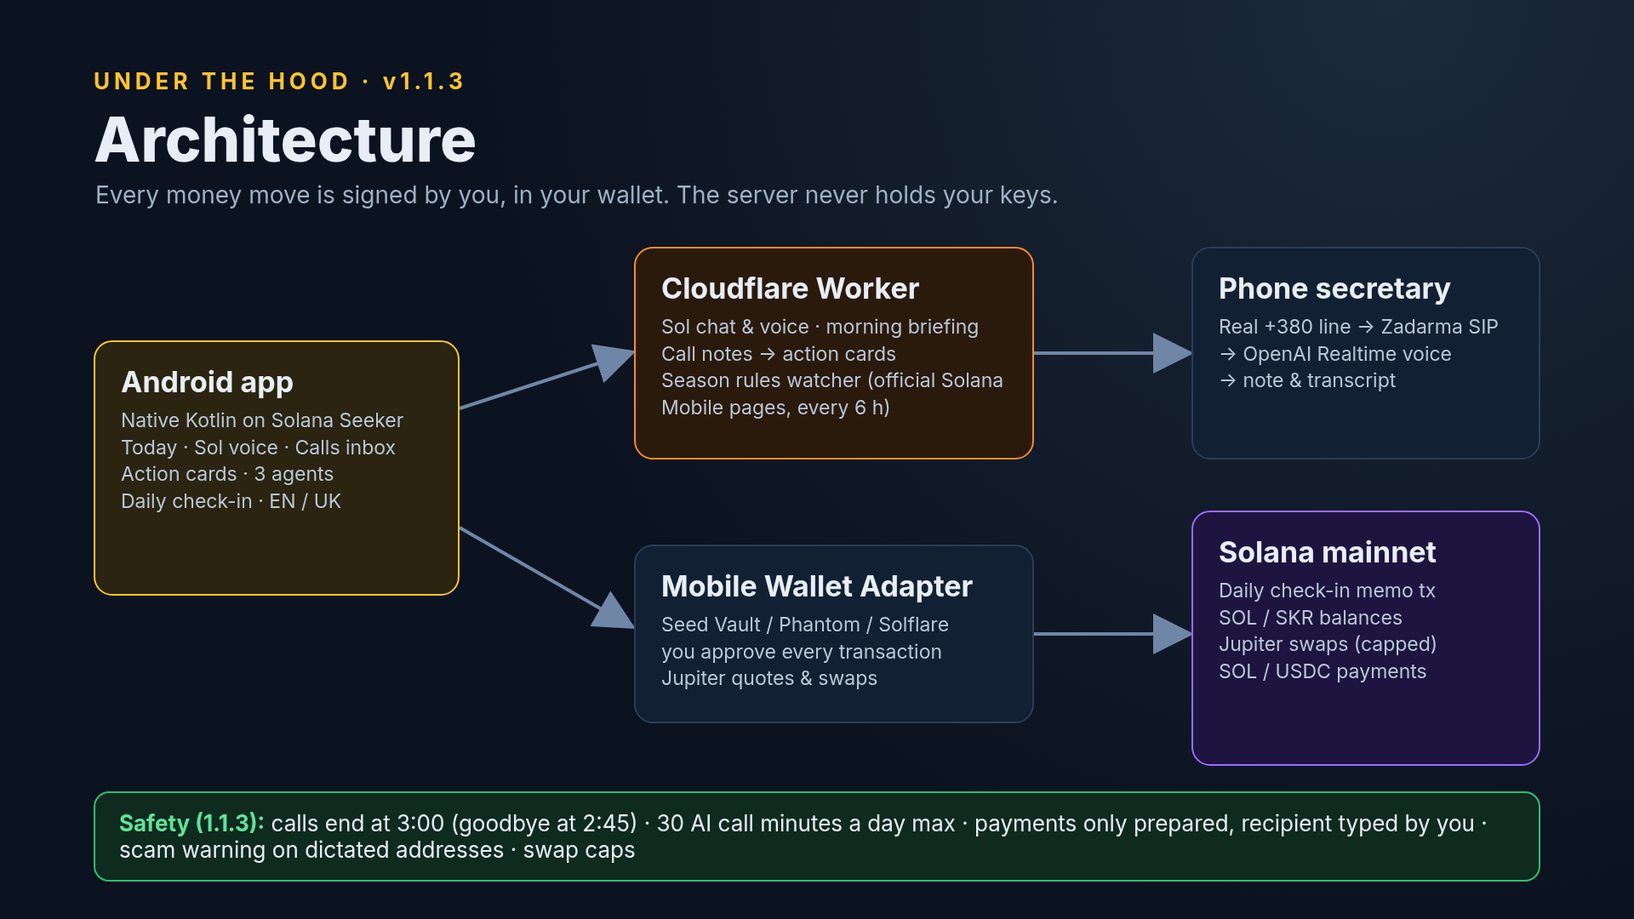
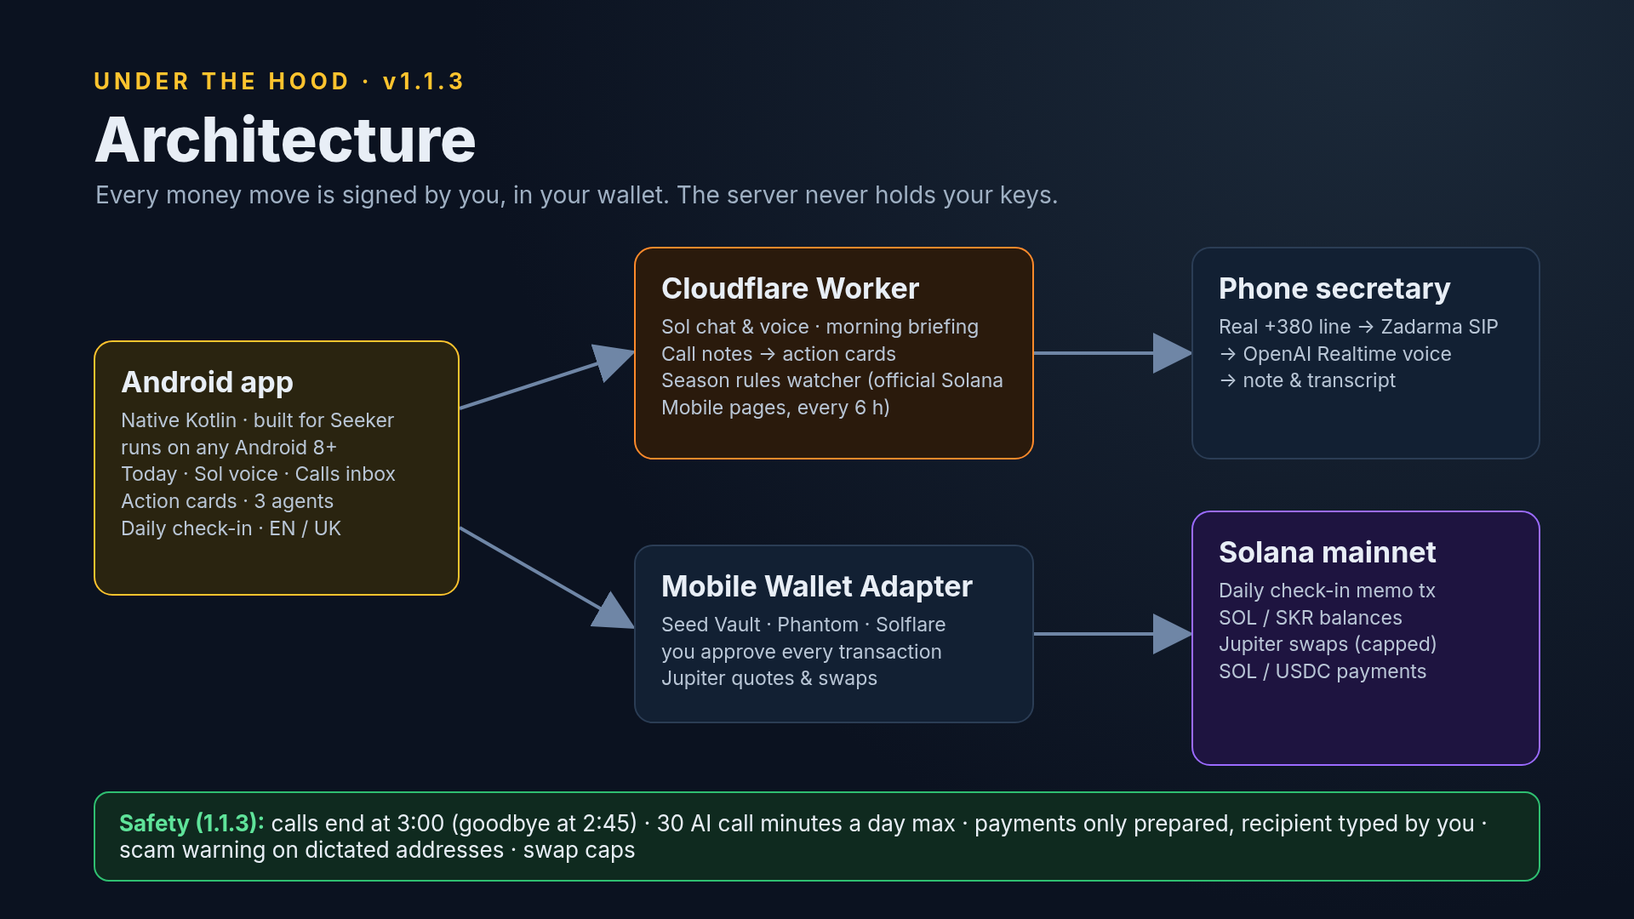
docs: demo filmed on an Android tablet with Phantom (no Seeker claims); prep covers Phantom install, funding and connecting; architecture card wording

Changed region(s): [[0.0625, 0.4278, 0.25, 0.5806], [0.4688, 0.6722, 0.5938, 0.7028]]

diff --git a/docs/DEMO_VIDEO_SCRIPT.md b/docs/DEMO_VIDEO_SCRIPT.md
@@ -2,29 +2,35 @@
 
 This video plays right after the 2-minute speech (pitch-2min-en.md, kept with the Colosseum deliverables), and later on its own for Colosseum. It must work on its own: the speech explains the problem, why Seeker and the business model. The video **shows** it. Nothing from the speech is repeated word for word, so the captions below use different wording on purpose.
 
+- **Device, honestly:** the app is built for Solana Seeker and supports Seed Vault through Mobile Wallet Adapter (MWA). But the video is filmed on an **Android tablet with Phantom**, through the same MWA flow. Vadym doesn't have a Seeker. Never say or caption that something is filmed or signed on a Seeker or in Seed Vault. The first caption says what the device is.
 - Target length: **2:25** (2:20 minimum, 2:30 maximum). The slot allows 3:00, but a tight video keeps the wow. Don't stretch it.
 - Language: **English** everywhere: app, Sol, secretary, captions.
 - Most of the sound comes from the app: the secretary and Sol talk. Voice-over (VO) is optional and short. If you skip the VO, the captions are enough.
-- Record the Seeker screen with the built-in screen recorder ("media + mic", sound on). Record the caller's phone separately (see shot 1). Edit in CapCut or similar: cut every wait, keep real speed for taps.
-- **Must-have shots:** the live call (shot 1) and the **daily check-in signed in Seed Vault on the real Seeker** (shot 4, it matters for CLOCK IN). If time runs short, cut from shots 5, 6 and 8, never from these two.
+- Record the tablet screen with its built-in screen recorder ("media + mic", sound on; on Samsung: quick panel → Screen recorder → "Media sounds and mic"). Record the caller's phone separately (see shot 1). Edit in CapCut or similar: cut every wait, keep real speed for taps.
+- **Must-have shots:** the live call (shot 1) and the **daily check-in signed in Phantom** (shot 4). If time runs short, cut from shots 5, 6 and 8, never from these two.
 
 ---
 
 ## Pre-flight (the evening before, or on the morning of 10 Oct before 11:00 Kyiv)
 
-1. **Install** v1.1.3 from https://github.com/Solar-DePIN-Hub/solarchik-assistant/releases/tag/v1.1.3 and open it once. Finish onboarding. Allow **notifications** and the **microphone**.
-2. **Language:** More → Language → English. **Secretary language:** More → Secretary → "Secretary speaks" → **English**. Check that this phone is the owner account ("Owner · no credit needed").
-3. **Wallet:** Seed Vault on **mainnet** with about **0.05 SOL** and some SKR if you have it. Today → **Set up wallet** → approve. Today must show a real SOL balance (and SKR), not "—".
-4. **Real swaps on, before recording** (so the risk dialog doesn't eat screen time): Agents → **Saver** → scroll to **Real swaps with Jupiter** → **Real swaps off** → "I understand, turn on real swaps". Keep the default caps.
-5. **Watcher on, the evening before:** Agents → **Watcher** → **Turn on Watcher**, set "Alert when a price moves by" to the lowest value, tap **Check now** once. By morning "Recent alerts" should have at least one line instead of "No alerts yet".
-6. **Season rules:** Agents → **Season Agent** → **Official Season rules** → **Check for rule updates** once. It must show a source title, a date and a quote, not "No official rule notes yet".
-7. **Call forwarding (for the strongest opening):** More → Secretary → **Forward unanswered calls to Sol secretary** → secretary number **+380914810885** → Save → **Busy** → press call in the dialer. Then do one test: ask your helper to call your Seeker number, press **Decline**, and check that the note shows up in **Calls** within about 30 s. If it doesn't land in your Calls, use plan B in shot 1.
-8. **Call budget (new in 1.1.3):** each AI call ends at 3:00 (the secretary says goodbye at 2:45), and the line answers at most 30 AI minutes a day in total, 20 per account (the day resets at 03:00 Kyiv). A normal test call is about 1 minute, so 3–5 test calls plus the take are fine. Don't leave a call running "to see what happens".
-9. **The helper (the "caller").** A friend with a second phone. Their phone is on **speaker**, and they record it themselves (their own screen recorder with mic) or you film it with a third phone. They read the caller lines from shot 1. Ask them to speak slowly.
-10. **Real-device signing test.** Before recording, sign one tiny transaction off camera (for example a 0.001 SOL → USDC swap) and open it on Solscan. If it works, you can approve on camera in shot 5. If it doesn't, follow the "reject" path. Never claim on screen that something worked unless the confirmation is in the shot.
-11. **Daily check-in: do NOT sign it before recording.** It's one per day and the day resets at 03:00 Kyiv, so keep today's check-in for shot 4. (If it was already signed by accident, shot 4 shows "Signed on Solana ✓" plus the Solscan link, which is weaker. Then record shot 4 again after 03:00 Kyiv the next night if you have time.)
-12. **Phone:** Do Not Disturb on (calls allowed), battery > 50 %, brightness up, good Wi-Fi/LTE, other apps closed, volume up, not on silent. Hide private notifications. Clear old test calls you don't want on screen (or make sure the newest call is the one from the recording).
-13. **Architecture card for shot 7:** `docs/architecture-1.1.3.png` in the repo (also `/workspace/deliverables/deck/architecture-1.1.3.png`). Put it into the edit as a still.
+Nothing has been installed yet, so do the steps in this order. Allow about 40 minutes.
+
+1. **Phantom on the tablet.** Google Play → **Phantom** (publisher Phantom Technologies) → Install → **Create a new wallet**. Use a fresh wallet for the demo, not your personal one: its address and balance will be on camera. Write the recovery phrase on paper and keep it off camera. Phantom is on Solana mainnet by default; check that **Settings → Developer settings → Testnet mode is off**.
+2. **Fund Phantom with about 0.02–0.05 SOL.** In Phantom tap **Receive** → Solana → copy the address. Send 0.02–0.05 SOL to it from an exchange or another wallet (double-check the first and last 4 characters). Wait until Phantom shows the balance. 0.02 SOL is enough for the check-in, a small swap test and the swap on camera; 0.05 SOL leaves room for retakes. (SKR is optional; without it the SKR line shows 0, that's fine.)
+3. **Install the app.** On the tablet open https://github.com/Solar-DePIN-Hub/solarchik-assistant/releases/tag/v1.1.3 → **solarchik-assistant.apk** → open the download → allow "Install unknown apps" for the browser when Android asks → Install. Open it once, finish onboarding, allow **notifications** and the **microphone**.
+4. **Connect Phantom in the app.** Today → **Set up wallet** → choose **Phantom** if Android asks → Phantom shows "Connect" for Solarchik → **Connect**. Back in the app, Today must show the real SOL balance, not "—". (If the app says "No Solana wallet app found", Phantom isn't installed or the app was opened before it; close the app and open it again.)
+5. **Language:** More → Language → English. **Secretary language:** More → Secretary → "Secretary speaks" → **English**.
+6. **Your account and the call budget.** The tablet install is a new account. More → Secretary: if it says **"Owner · no credit needed"**, you're set. If it shows **Secretary credit** with a trial amount instead, the account has **3 starter calls**, and each caller number gets 3 trial calls a day. To lift that, send your **Account ID** (More → Secretary → Account ID) to the agent: it gets added to the owner list on the worker (`ADMIN_USER_IDS`, no app update). Do this before the test calls.
+7. **Real swaps on, before recording** (so the risk dialog doesn't eat screen time): Agents → **Saver** → scroll to **Real swaps with Jupiter** → **Real swaps off** → "I understand, turn on real swaps". Keep the default caps.
+8. **Watcher on, the evening before:** Agents → **Watcher** → **Turn on Watcher**, set "Alert when a price moves by" to the lowest value, tap **Check now** once. By morning "Recent alerts" should have at least one line instead of "No alerts yet".
+9. **Season rules:** Agents → **Season Agent** → **Official Season rules** → **Check for rule updates** once. It must show a source title, a date and a quote, not "No official rule notes yet".
+10. **Calls on a tablet.** The tablet doesn't need a SIM. On Today tap **Try a call**: the app reserves the shared secretary line for **3 minutes** for your account ("The line is yours for 3 minutes"; a tablet without a dialer also says "No dialer on this device: the number is copied", that's normal). Within those 3 minutes the helper dials **+380 91 481 0885** from their phone, and the note lands in **Calls** on the tablet. Do one test call this way and check the note appears within about 30 s. (Call forwarding from Settings is for a phone with a SIM; skip it.)
+11. **Call budget (new in 1.1.3):** each AI call ends at 3:00 (the secretary says goodbye at 2:45), and the line answers at most 30 AI minutes a day in total, 20 per account (the day resets at 03:00 Kyiv). A test call is about 1 minute, so 2–3 test calls plus the take are fine.
+12. **The helper (the "caller").** A friend with a second phone. Their phone is on **speaker**, and they record it themselves (their own screen recorder with mic) or you film it with a third device. They read the caller lines from shot 1. Ask them to speak slowly.
+13. **Signing test with Phantom, off camera.** Agents → Saver → Real swaps with Jupiter → pay **SOL 0.002** → get **USDC** → Get quote → Confirm in wallet → **Approve** in Phantom → wait for "Swap confirmed on mainnet" → open the Solscan link. If it works, you can approve on camera in shot 5. If it doesn't, use the "reject" path there and tell the agent what the app said. Never claim on screen that something worked unless the confirmation is in the shot. **Don't use the check-in for this test** (see 14).
+14. **Daily check-in: do NOT sign it before recording.** It's one per day and the day resets at 03:00 Kyiv, so keep today's check-in for shot 4. (If it was signed by accident, shot 4 shows "Signed on Solana ✓" plus the Solscan link, which is weaker.)
+15. **Tablet:** Do Not Disturb on, battery > 50 %, brightness up, good Wi-Fi, other apps closed, volume up. Hide private notifications. Clear old test calls you don't want on screen (or make sure the newest call is the one from the recording).
+16. **Architecture card for shot 7:** `docs/architecture-1.1.3.png` in the repo (also `/workspace/deliverables/deck/architecture-1.1.3.png`). Put it into the edit as a still.
 
 ---
 
@@ -32,17 +38,13 @@ This video plays right after the 2-minute speech (pitch-2min-en.md, kept with th
 
 ### Shot 1 · 0:00–0:30 · A real call, answered by the secretary (the opening)
 
-**Plan A (forwarding, best):**
-
-| Time | Seeker screen / taps | Caller phone (speaker, recorded) | Caption |
+| Time | Tablet screen / taps | Caller phone (speaker, recorded) | Caption |
 |---|---|---|---|
-| 0:00–0:04 | Seeker on the home screen. Incoming call from the helper ("Olena"). You let it ring once, then press **Decline**. | Ringing. | **I'm busy. I don't pick up.** |
-| 0:04–0:26 | Open the app → **Calls**. The new row shows "The secretary is on the call or writing the note…". (Use split screen in the edit: Seeker on the left, caller audio on top.) | The secretary greets and asks who is calling. Caller (slowly): *"Hi, this is Olena. I'm calling Vadym."* Secretary asks what it's about. Caller: *"I paid for our lunch yesterday. Can he send me zero point zero one SOL? Please ask him to call me back today at three, it's about the contract. And remind him about our meeting on Monday."* Secretary confirms and says goodbye. Caller: *"Thanks, bye."* | **My AI secretary picks up. Live, on a real phone line.** |
+| 0:00–0:04 | Today on the tablet. Tap **Try a call** → "The line is yours for 3 minutes". (Cut the "number is copied" toast.) | The helper dials +380 91 481 0885. | **I'm busy. My AI secretary takes the call.** Small, bottom corner, 0:00–0:06: *Filmed on an Android tablet with Phantom. Built for Solana Seeker.* |
+| 0:04–0:26 | Open **Calls**. The new row shows "The secretary is on the call or writing the note…". (Split screen in the edit: tablet on the left, caller phone on the right.) | The secretary greets and asks who is calling. Caller (slowly): *"Hi, this is Olena. I'm calling Vadym."* Secretary asks what it's about. Caller: *"I paid for our lunch yesterday. Can he send me zero point zero one SOL? Please ask him to call me back today at three, it's about the contract. And remind him about our meeting on Monday."* Secretary confirms and says goodbye. Caller: *"Thanks, bye."* | **Live, on a real phone line.** |
 | 0:26–0:30 | The notification for the new note slides in. | Hang up. | |
 
-**Plan B (helper calls the demo line directly):** the helper dials **+380 91 481 0885** from their phone. Open on the caller's screen dialing (filmed), then the same conversation. Seeker shows Calls with the "on the call" row. Same caption.
-
-**Plan C (one phone only):** Today → **Try a call**, phone on **speaker**, you play Olena with the same lines. The screen recorder picks up both voices through the mic. Caption: **The secretary line answers. Live.** (Don't call it an incoming call in this version.)
+**Plan B (one device only):** Today → **Try a call**, then dial +380 91 481 0885 from any phone yourself, on **speaker**, and play Olena with the same lines. The tablet's screen recorder picks up both voices through the mic. Caption: **The secretary line answers. Live.**
 
 Cut the wait between the hang-up and the note. Don't show a spinner for more than 1 second.
 
@@ -64,22 +66,22 @@ If the reminder card doesn't appear (the model can vary), skip that tap and keep
 
 If the briefing starts with "No calls since yesterday", the call note hasn't synced yet: go to Calls, tap **Refresh**, and record this shot again.
 
-### Shot 4 · 1:00–1:20 · Daily check-in, signed on the real Seeker (must-have)
+### Shot 4 · 1:00–1:20 · Daily check-in, signed in Phantom (must-have)
 
 | Time | Taps | Caption |
 |---|---|---|
-| 1:00–1:05 | **Today**: the wallet card with real SOL and SKR (mainnet), then the **Daily check-in** card. | **Real balances. Solana mainnet. My Seeker.** |
-| 1:05–1:15 | Tap **Check in**. **Seed Vault** opens on the Seeker with the transaction. Approve it (fingerprint / double-press, whatever Seed Vault asks). Keep the Seed Vault screen in the shot, but never the PIN. | **Signed in Seed Vault, on the device.** |
-| 1:15–1:20 | Back in the app: "Signed on Solana ✓". Tap the Solscan link and hold 2 s on the confirmed memo transaction. | **One real mainnet transaction a day. That's my streak.** |
+| 1:00–1:05 | **Today**: the wallet card with the real SOL balance (mainnet), then the **Daily check-in** card. | **Real balance. Solana mainnet.** |
+| 1:05–1:15 | Tap **Check in**. **Phantom** opens with the transaction (network fee only). Tap **Approve**. Keep Phantom's approval screen in the shot; never the recovery phrase or password. | **Signed in my own wallet, through Mobile Wallet Adapter.** |
+| 1:15–1:20 | Back in the app: "Signed on Solana ✓". Tap the Solscan link and hold 2 s on the confirmed memo transaction. | **One real mainnet transaction a day.** |
 
-If the wallet fails: stop, fix, record this shot again. This one is not optional.
+If Phantom fails: stop, fix, record this shot again. This one is not optional. Don't caption it as Seeker Season activity: Season counts Seed Vault activity on a Seeker.
 
 ### Shot 5 · 1:20–1:38 · A Jupiter swap review
 
 | Time | Taps | Caption |
 |---|---|---|
-| 1:20–1:29 | **Agents** → **Saver** → **Real swaps with Jupiter** ("Mainnet · real funds"). You pay **SOL 0.01**, you get **USDC**. **Get quote**. Show **Review before your wallet**: route, price impact, fees, "Counts toward today's cap". | **A real Jupiter quote. Fees and impact first.** |
-| 1:29–1:38 | **Confirm in wallet**. Seed Vault opens. **Reject path (default):** Reject → "The wallet did not sign. Nothing was sent." **Approve path (only if the pre-flight test worked):** approve → "Swap confirmed on mainnet" → Solscan 1 s. | Reject: **My wallet decides. Nothing was sent.** Approve: **Confirmed on mainnet.** |
+| 1:20–1:29 | **Agents** → **Saver** → **Real swaps with Jupiter** ("Mainnet · real funds"). You pay **SOL 0.005** (0.01 if you funded 0.05 SOL), you get **USDC**. **Get quote**. Show **Review before your wallet**: route, price impact, fees, "Counts toward today's cap". | **A real Jupiter quote. Fees and impact first.** |
+| 1:29–1:38 | **Confirm in wallet**. Phantom opens. **Reject path (default):** Reject → "The wallet did not sign. Nothing was sent." **Approve path (only if the pre-flight test worked):** Approve → "Swap confirmed on mainnet" → Solscan 1 s. | Reject: **My wallet decides. Nothing was sent.** Approve: **Confirmed on mainnet.** |
 
 ### Shot 6 · 1:38–1:52 · Seeker Season plan and the rules watcher
 
@@ -92,7 +94,7 @@ If the wallet fails: stop, fix, record this shot again. This one is not optional
 
 | Time | On screen | Caption |
 |---|---|---|
-| 1:52–2:00 | The architecture card (`architecture-1.1.3.png`), slow zoom from the Android app box to Solana mainnet. | **Kotlin app → Cloudflare Worker → OpenAI Realtime over a real SIP line. Wallet: Mobile Wallet Adapter, Seed Vault. Jupiter. Solana mainnet.** |
+| 1:52–2:00 | The architecture card (`architecture-1.1.3.png`), slow zoom from the Android app box to Solana mainnet. | **Kotlin app → Cloudflare Worker → OpenAI Realtime over a real SIP line. Mobile Wallet Adapter: Seed Vault on Seeker, Phantom here. Jupiter. Solana mainnet.** |
 | 2:00–2:05 | Zoom into the green safety bar of the same card. | **Calls end at 3:00. 30 AI minutes a day, max.** |
 | 2:05–2:10 | Quick cut back to the payment sheet from shot 2 (reuse the footage): the scam warning and the empty recipient. | **No payment without me. A dictated address gets a scam warning.** |
 
@@ -103,7 +105,7 @@ If the wallet fails: stop, fix, record this shot again. This one is not optional
 | 2:10–2:13 | **Season Agent** tab: autopilot line "1–2 real actions a day, you sign each". | **Season Agent: suggests, never signs for me.** |
 | 2:13–2:16 | **Saver** tab, then **Watcher** tab with one line in "Recent alerts" (two quick cuts). | **Saver: inside my caps. Watcher: alerts only.** |
 | 2:16–2:20 | (Optional, cut first if long) Sol answers one held-mic question: *"Sol, what's left for today?"* | **Ask Sol.** |
-| 2:20–2:25 | End card (still image, 5 s). | **Solarchik Assistant** · Android app for Solana Seeker · v1.1.3 · Call the secretary: **+380 91 481 0885** · github.com/Solar-DePIN-Hub/solarchik-assistant |
+| 2:20–2:25 | End card (still image, 5 s). | **Solarchik Assistant** · Android app built for Solana Seeker · v1.1.3 · Call the secretary: **+380 91 481 0885** · github.com/Solar-DePIN-Hub/solarchik-assistant |
 
 ---
 
@@ -113,7 +115,7 @@ Different words from the speech on purpose. Record it after the screen takes, re
 
 - Shot 1: "Someone calls. I'm in a meeting."
 - Shot 2: "Ten seconds later I know what Olena wants, and what to do next."
-- Shot 4: "Every day one real transaction, signed on my Seeker."
+- Shot 4: "Every day one real transaction, signed in my own wallet."
 - Shot 5: "The quote is real. The decision is mine."
 - Shot 7: "A real phone line, my own wallet, and limits so nothing runs away."
 
@@ -121,20 +123,22 @@ Different words from the speech on purpose. Record it after the screen takes, re
 
 ## What to avoid on camera
 
-- **Empty states:** "No calls yet", "No calls since yesterday", "No alerts yet", "No official rule notes yet", "Reading prices…", "Loading calls…", "—" in place of a balance. Prepare the data the evening before (pre-flight 5–7).
+- **Seeker claims:** no caption or VO saying "on my Seeker", "Seed Vault", "signed on Seeker", or that the check-ins count for Seeker Season. The device is an Android tablet and the wallet is Phantom.
+- **Empty states:** "No calls yet", "No calls since yesterday", "No alerts yet", "No official rule notes yet", "Reading prices…", "Loading calls…", "—" in place of a balance. Prepare the data the evening before (pre-flight 8–10).
 - **Devnet anywhere:** More → developer switch / "Force devnet", "Get devnet SOL", the old strategy market, any "(devnet)" label. Don't open the developer settings at all.
 - **"Mainnet mint: coming soon"** on the agent NFT card: scroll past it, don't tap Mint. (The speech already says the NFT opens later.)
 - **Experimental delegated limit:** don't turn it on in the video. It's a side feature with a red warning; showing it would need explaining.
 - **Claims the video can't back up:** no caption saying "proven", "guaranteed", "earns points" or "fully tested". Show an approval only if the confirmation is in the shot.
-- **Private data:** seed phrase, Seed Vault PIN, full balance of a personal wallet you don't want public, other people's numbers, unrelated notifications.
+- **Private data:** Phantom's recovery phrase and password, a personal wallet you don't want public (use the fresh demo wallet), other people's numbers, unrelated notifications.
 - **Long waits:** spinners, "Preparing…", the 30 s before the note appears. Cut them.
 - **Sending real money to an address a caller dictated.** Never, even for the demo.
 
 ## If something goes wrong while recording
 
-- The secretary doesn't pick up: check the internet, wait a minute, call again. Plan C works with one phone.
-- You hear "the assistant can't take any more calls today": the daily AI minutes cap (pre-flight 8) was reached. Ask the parent agent/Vadym's assistant to raise `CALL_DAILY_MIN_GLOBAL` / `CALL_DAILY_MIN_ACCOUNT` on the worker (one `wrangler secret put`, no app update).
+- The secretary doesn't pick up: check the internet, wait a minute, tap **Try a call** again and call again. Plan B works with one helper phone.
+- The note lands somewhere else (not in the tablet's Calls): the 3-minute reservation ran out before the call. Tap **Try a call** again right before the helper dials.
+- You hear "the assistant can't take any more calls today": the daily AI minutes cap (pre-flight 11) was reached, or the starter credit ran out (pre-flight 6). Ask the agent to raise `CALL_DAILY_MIN_GLOBAL` / `CALL_DAILY_MIN_ACCOUNT` or add your Account ID to the owner list (worker settings, no app update).
 - The note is slow: stop recording, wait, open **Calls** → **Refresh**, and record shot 2 separately.
 - Sol doesn't answer: check the connection and ask again. The text box works too, but voice looks better.
-- The wallet doesn't open: the wallet app must be installed and on mainnet. Tap again, or use the reject path (not for shot 4: fix it and record again).
+- Phantom doesn't open: Phantom must be installed and on mainnet (Testnet mode off). Tap again; if it still fails, More → Wallet → **Forget**, then Today → **Set up wallet** again. In shot 5 you can use the reject path; shot 4 needs a real approval, so fix it and record again.
 - "Checked a few minutes ago" on the rules check is the normal 5-minute server limit. Keep it.

diff --git a/docs/COLOSSEUM_SUBMISSION.md b/docs/COLOSSEUM_SUBMISSION.md
@@ -55,6 +55,7 @@ Native Kotlin Android app. Sol for voice. Secretary on a real line with transcri
 - MunichTech and CLOCK IN used the game-shaped build; Colosseum is repositioned as Assistant in this repo.
 - No dApp Store publish yet. SKR is shown read-only (mainnet balance); staking is a link to stake.solanamobile.com. The Seeker Season plan never signs or repeats anything, and it can't show Season points.
 - 1.1.0 is on mainnet with real funds; swaps and agents are opt-in with small caps. Signed mainnet transactions were verified by building and simulating against mainnet, not by spending funds. Agent NFT mint on mainnet is not open yet.
+- No Seeker in hand: the demo video is filmed on an Android tablet with Phantom through Mobile Wallet Adapter. The app is built for Seeker and reaches Seed Vault through the same MWA flow, but Seed Vault on a real Seeker is not tested yet. Seeker Season counts Seed Vault activity, so the tablet's check-ins do not count for Season.
 - Prior accelerator wins were with a different project (answer No if the form means this product).
 
 ## Open before submit
